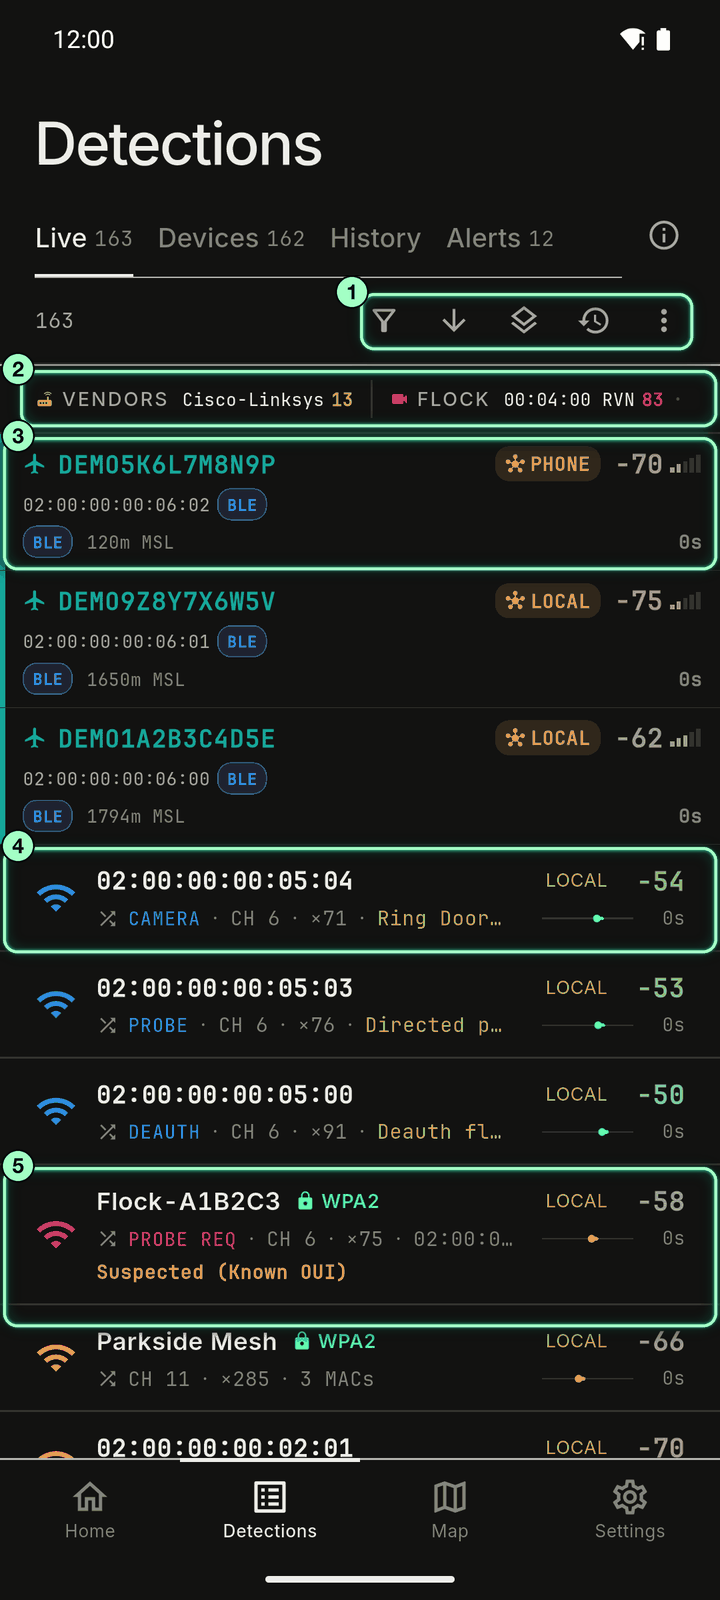
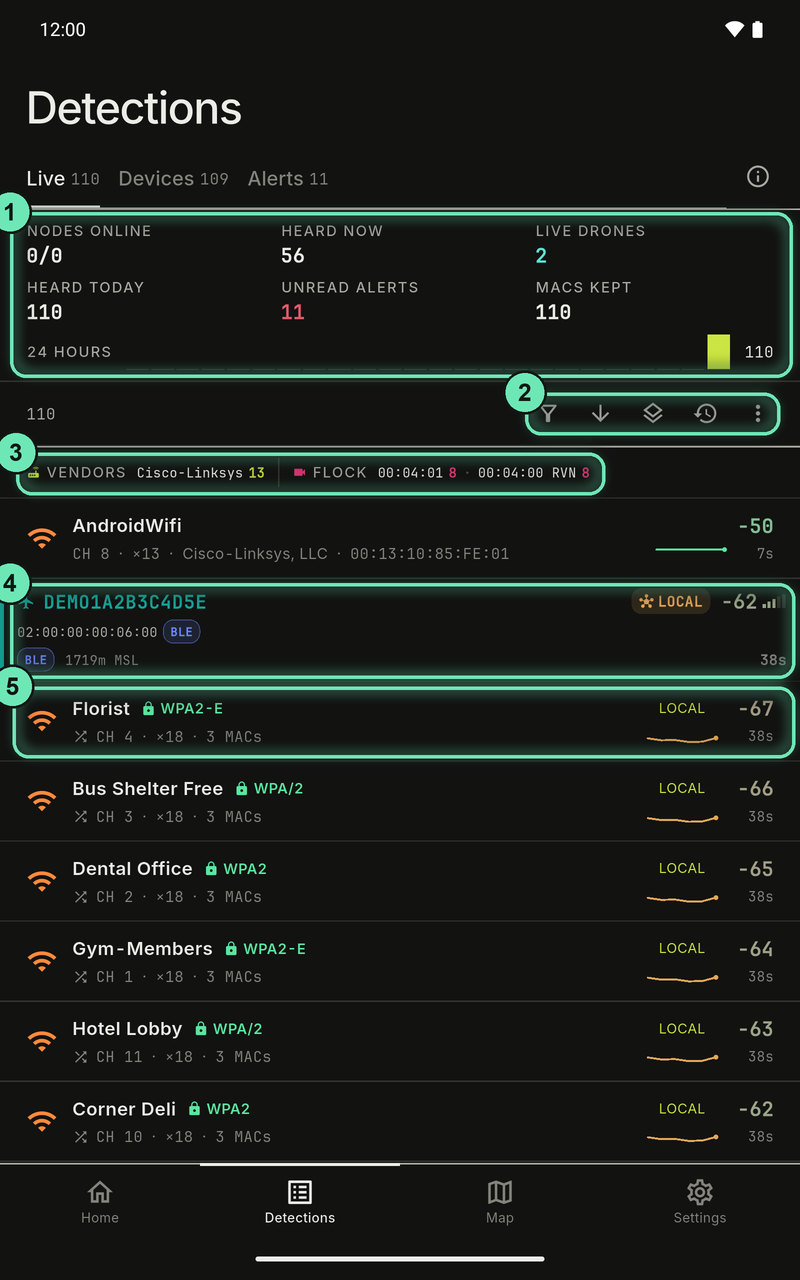
docs: README wide shots, Alerts tab

diff --git a/README.md b/README.md
@@ -81,30 +81,39 @@ Every screen below is the app itself on Android, filled with made-up devices alo
 
 The app asks for each permission on its own screen, then opens Home.
 
-<img width="240" src="docs/screenshots/tour/01-permissions.png" alt="Permission step: Bluetooth" />
+<img width="360" src="docs/screenshots/tour/01-permissions.png" alt="Permission step: Bluetooth" />
 <ol>
   <li><b>Progress</b>: which permission step you are on. Android asks for five.</li>
   <li><b>Continue</b>: your phone shows its own prompt next.</li>
 </ol>
 
-<img width="240" src="docs/screenshots/tour/02-location-always.png" alt="Permission step: location all the time" />
+<img width="360" src="docs/screenshots/tour/02-location-always.png" alt="Permission step: location all the time" />
 <ol>
   <li><b>Location all the time</b>: needed to keep wardriving with the screen off.</li>
   <li><b>Continue</b>: opens Settings. Choose <b>Allow all the time</b>, then go back.</li>
 </ol>
 
-<img width="240" src="docs/screenshots/tour/03-first-launch.png" alt="Home on first launch" />
+<img width="360" src="docs/screenshots/tour/03-first-launch.png" alt="Home on first launch" />
 <ol>
   <li><b>Status</b>: board link and GPS fix.</li>
   <li><b>Shortcuts</b>: the arrows open the Connect screen. The phone icon starts the phone scan.</li>
   <li><b>USE THIS DEVICE</b>: scan with the phone's own radios, no board needed.</li>
 </ol>
 
+<img width="360" src="docs/screenshots/tour/18-signature-sources.png" alt="Signature sources prompt on first launch" />
+<ol>
+  <li><b>Online sets</b>: the Fieldwatch stock catalog and Home Assistant's Bluetooth device list. They download from GitHub only when you turn them on.</li>
+  <li><b>Extended Flock OUI set</b>: a board setting, off by default. It roughly doubles the Flock maker prefixes and gives more false positives. Connect a board to change it.</li>
+  <li><b>Save / Not now</b>: the prompt shows once per app version. Change these later in SETTINGS → Detection & Alerts → Your Lists → Signature sets.</li>
+</ol>
+
+Next: [Start a scan](#start-a-scan)
+
 ### Start a scan
 
 Pick what to look for and which radios to use, then tap START.
 
-<img width="300" src="docs/screenshots/tour/04-home-ready.png" alt="Home before a scan" />
+<img width="360" src="docs/screenshots/tour/04-home-ready.png" alt="Home before a scan" />
 <ol>
   <li><b>Counters</b>: unique devices, engines running, and hits per minute.</li>
   <li><b>Targets</b>: Flock cameras, drones, every Wi-Fi and BLE device (SCAN), and your watchlist (DETECT).</li>
@@ -112,34 +121,37 @@ Pick what to look for and which radios to use, then tap START.
   <li><b>Engine cards</b>: turn one engine on or off by itself.</li>
 </ol>
 
-<img width="300" src="docs/screenshots/tour/05-home-running.png" alt="Home during a scan" />
+<img width="360" src="docs/screenshots/tour/05-home-running.png" alt="Home during a scan" />
 <ol>
   <li><b>Status</b>: what is scanning and how good the GPS fix is.</li>
   <li><b>PAUSE / STOP</b>: pause or end the session. A stopped session is saved.</li>
   <li><b>Hit counts</b>: hits per engine this session, next to its switch.</li>
 </ol>
 
+Next: [Detections](#detections)
+
 ### Detections
 
 Everything the boards and the phone hear, live. Tap any row for its details.
 
-<img width="300" src="docs/screenshots/tour/06-live.png" alt="Live detections list" />
+<img width="360" src="docs/screenshots/tour/06-live.png" alt="Live detections list" />
 <ol>
+  <li><b>Live counts</b>: nodes online, devices heard now and today, live drones, unread alerts, MACs kept, and the last 24 hours.</li>
   <li><b>Tools</b>: filter, sort, group Wi-Fi clients under their network, open ALERTS, and more.</li>
   <li><b>Top vendors and Flock</b>: tap a vendor to show only its devices.</li>
   <li><b>A drone</b>: its Remote ID, the radio that heard it, and its altitude.</li>
-  <li><b>A detector hit</b>: here a camera, with its channel and hit count.</li>
-  <li><b>A Flock hit</b>: with its confidence.</li>
+  <li><b>A network</b>: one row per network name. "3 MACs" counts the radios that use it.</li>
 </ol>
 
-<img width="300" src="docs/screenshots/tour/07-device-sheet.png" alt="Details of a Wi-Fi network" />
+<img width="360" src="docs/screenshots/tour/07-device-sheet.png" alt="Details of a Wi-Fi network" />
 <ol>
+  <li><b>MACs</b>: every MAC that uses this network name.</li>
   <li><b>What this looks like</b>: the app's best guess, in plain words.</li>
   <li><b>Foxhunt this device</b>: follow its signal to the source.</li>
   <li><b>Trust this network</b>: warns you later about lookalikes. See <a href="#watches-and-alerts">Watches and alerts</a>.</li>
 </ol>
 
-<img width="300" src="docs/screenshots/tour/16-devices.png" alt="Devices grouped by type" />
+<img width="360" src="docs/screenshots/tour/16-devices.png" alt="Devices grouped by type" />
 <ol>
   <li><b>Tools</b>: filter, sort, group by type, and group Wi-Fi clients under their network.</li>
   <li><b>A device type</b>: tap to open it. The handle arranges the sections.</li>
@@ -147,41 +159,40 @@ Everything the boards and the phone hear, live. Tap any row for its details.
   <li><b>With you</b>: the walking icon marks a device that moves with you, such as your own earbuds.</li>
 </ol>
 
-<img width="300" src="docs/screenshots/tour/17-history.png" alt="History of saved detections" />
-<ol>
-  <li><b>Tools</b>: filter, sort, back to LIVE, saved sessions, and more.</li>
-  <li><b>A detector hit</b>: what it matched, here a doorbell camera.</li>
-  <li><b>A watch alert</b>: here a lookalike network with weaker security.</li>
-</ol>
+Next: [Alerts and what to watch for](#alerts-and-what-to-watch-for)
 
 ### Alerts and what to watch for
 
 Choose which device types alert you. Every alert and every Flock, Detector, drone and SDR hit lands in one list, newest first.
 
-<img width="300" src="docs/screenshots/tour/08-alerts.png" alt="Alerts list" />
+<img width="360" src="docs/screenshots/tour/08-alerts.png" alt="Alerts list" />
 <ol>
-  <li><b>An alert</b>: what was found, why, and when. Tap it for the map and the device.</li>
-  <li><b>Count and clear</b>: how many alerts, and a button to clear them.</li>
+  <li><b>Dismiss all / Silence all</b>: mark every alert read, or stop sounds and notifications until you turn them back on.</li>
+  <li><b>An alert on a device</b>: shown on that device's row, here a drone hovering near you.</li>
+  <li><b>A watch alert</b>: here an aircraft circling you. Tap a row for the map, the device and Delete.</li>
+  <li><b>A Flock or detector hit</b>: its confidence, channel and how often it was heard. Unread alerts are tinted.</li>
 </ol>
 
-<img width="300" src="docs/screenshots/tour/11-what-to-watch.png" alt="Settings, What to Watch For" />
+<img width="360" src="docs/screenshots/tour/11-what-to-watch.png" alt="Settings, What to Watch For" />
 <ol>
   <li><b>Alert threshold</b>: how sure a detector hit must be before it notifies you.</li>
   <li><b>Bell</b>: notify, or only log it.</li>
 </ol>
 
+Next: [Map](#map)
+
 ### Map
 
 Every hit is placed where you heard it, along your route. The numbers are how many hits share a spot.
 
-<img width="300" src="docs/screenshots/tour/10-map-list.png" alt="Map during a wardrive with the Flock list open" />
+<img width="360" src="docs/screenshots/tour/10-map-list.png" alt="Map during a wardrive with the Flock list open" />
 <ol>
   <li><b>Session</b>: time recording, and counts of Wi-Fi, Flock, drone, detector and BLE hits.</li>
   <li><b>Flock list</b>: tap the chip to open or close it. Tap a row to zoom the map to it. Drones and detector hits have their own lists.</li>
   <li><b>Drive</b>: distance, speed, hits per km, and Stop / Pause.</li>
 </ol>
 
-<img width="300" src="docs/screenshots/tour/09-map.png" alt="A saved wardrive session on the map" />
+<img width="360" src="docs/screenshots/tour/09-map.png" alt="A saved wardrive session on the map" />
 <ol>
   <li><b>Saved session</b>: unique devices, total hits and distance.</li>
   <li><b>Lists</b>: Flock, drone and detector hits from this session.</li>
@@ -190,27 +201,31 @@ Every hit is placed where you heard it, along your route. The numbers are how ma
   <li><b>SESSIONS</b>: open, export or delete saved sessions.</li>
 </ol>
 
+Next: [Sessions and reports](#sessions-and-reports)
+
 ### Sessions and reports
 
 Every session is saved. Open one to replay it on the map, or open its report.
 
-<img width="240" src="docs/screenshots/tour/13-sessions.png" alt="Saved sessions list" />
+<img width="360" src="docs/screenshots/tour/13-sessions.png" alt="Saved sessions list" />
 <ol>
   <li><b>SELECT, IMPORT, CLEAR ALL</b>: pick several sessions, load a WiGLE CSV, or delete them all.</li>
   <li><b>A session</b>: when, how long, how far, and its Wi-Fi, BLE, Flock, drone and detector counts. Tap it to replay it on the map.</li>
 </ol>
 
-<img width="240" src="docs/screenshots/tour/14-report.png" alt="Wardrive report, top" />
+<img width="360" src="docs/screenshots/tour/14-report.png" alt="Wardrive report, top" />
 <ol>
   <li><b>Totals</b>: Wi-Fi networks, how many were new, and Bluetooth devices.</li>
   <li><b>Wi-Fi networks</b>: new, seen before, hidden, and per band.</li>
 </ol>
 
-<img width="240" src="docs/screenshots/tour/15-report-detail.png" alt="Wardrive report, details" />
+<img width="360" src="docs/screenshots/tour/15-report-detail.png" alt="Wardrive report, details" />
 <ol>
   <li><b>Detections</b>: Flock cameras, drones and watchlist hits.</li>
   <li><b>Alerts</b>: every alert kind raised during the session. Further down, whether it was uploaded to WiGLE and WDGWars.</li>
 </ol>
+
+Next: [Tips](#tips)
 
 ### Tips
 
@@ -356,6 +371,12 @@ The phone can scan with its own radios, with or without a board. Tap **USE THIS 
 ### Receive only
 
 One switch in SETTINGS → Detection & Alerts → Privacy stops every scan from transmitting.
+
+<img width="360" src="docs/screenshots/tour/19-privacy.png" alt="Privacy settings: Receive only and Mask identifiers on screen" />
+<ol>
+  <li><b>Receive only</b>: boards, mesh nodes and this phone only listen.</li>
+  <li><b>Mask identifiers on screen</b>: hides most of each MAC, name and SSID on screen. Exports keep full values.</li>
+</ol>
 
 - **Boards:** each connected board stops Wi-Fi probe requests and Bluetooth scan requests. A manager passes this to its mesh nodes.
 - **Android phone:** the phone only hears scans that other apps already run, so it finds far fewer devices. Wi-Fi shows the networks Android already knows instead of starting a scan.
@@ -572,7 +593,7 @@ Use an RTL2832U dongle with USB ID `0bda:2832` or `0bda:2838`. Open the SDR scre
   - Frequency: 315, 433.92, or 915 MHz
   - What it receives: The device types you pick from what the rtl_433 decoders recognize: weather stations, utility meters (including Wireless M-Bus and Itron / Silver Spring smart-meter mesh), security sensors, remotes and key fobs, home sensors and tire-pressure sensors
 
-<img width="300" src="docs/screenshots/tour/12-sdr-scan.png" alt="SDR SCAN with decoded devices" />
+<img width="360" src="docs/screenshots/tour/12-sdr-scan.png" alt="SDR SCAN with decoded devices" />
 <ol>
   <li><b>Bands</b>: pick 315, 433 or 915 MHz, or several to sweep them, then tap START.</li>
   <li><b>Types</b>: tap a chip to turn that type on or off. Each chip counts what it found.</li>
